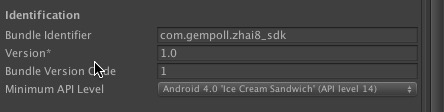
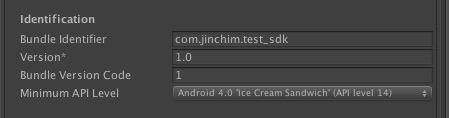
Site updated: 2017-04-17 13:57:33

diff --git a/2017/04/14/AndroidForUnity/index.html b/2017/04/14/AndroidForUnity/index.html
@@ -98,7 +98,8 @@
 <meta property="og:image" content="http://yoursite.com/2017/04/14/AndroidForUnity/img01.png">
 <meta property="og:image" content="http://yoursite.com/2017/04/14/AndroidForUnity/img02.png">
 <meta property="og:image" content="http://yoursite.com/2017/04/14/AndroidForUnity/img03.png">
-<meta property="og:updated_time" content="2017-04-17T05:34:53.000Z">
+<meta property="og:image" content="http://yoursite.com/2017/04/14/AndroidForUnity/img04.png">
+<meta property="og:updated_time" content="2017-04-17T05:57:14.000Z">
 <meta name="twitter:card" content="summary">
 <meta name="twitter:title" content="Android 和 Unity 交互及各种神坑">
 <meta name="twitter:description" content="最近公司请外包团队做了一款手游，临近上线需要接入公司自己渠道的账号体系（登录、注册、充值等），于是开发SDK和在手游中接入 SDK 又落在了我的头上。手游是用 Unity 开发的，而 SDK 是使用 Android Native，现在唯一需要解决的就是它们之间应该如何交互，接下来就把本人如何交互和交互过程中遇到的问题分享给大家。
@@ -378,7 +379,7 @@
 <h2 id="使用-unity-jar"><a href="#使用-unity-jar" class="headerlink" title="使用 unity.jar"></a>使用 unity.jar</h2><p>Unity 官方给 Android 提供了一个开发包（下载地址自行百度吧～），用以 Android 和 Unity 交互。</p>
 <p>在 Android 工程中引入 unity.jar，编写一个 Activity（需要继承自 UnityPlayerActivity，我的类名是 Unity3dActivity ），这个类便是之后 Android 和 Unity 交互的核心，并且还需要在 AndroidManifest.xml 中写入如下的配置：</p>
 <figure class="highlight xml"><table><tr><td class="gutter"><pre><div class="line">1</div><div class="line">2</div><div class="line">3</div><div class="line">4</div><div class="line">5</div><div class="line">6</div><div class="line">7</div><div class="line">8</div><div class="line">9</div><div class="line">10</div><div class="line">11</div></pre></td><td class="code"><pre><div class="line"><span class="tag">&lt;<span class="name">activity</span></span></div><div class="line">  <span class="attr">android:name</span>=<span class="string">"com.gempoll.zhai8_sdk.sdk.Unity3dActivity"</span></div><div class="line">  <span class="attr">android:configChanges</span>=<span class="string">"fontScale|keyboard|keyboardHidden|locale|mnc|mcc|navigation|orientation|screenLayout|screenSize|smallestScreenSize|uiMode|touchscreen"</span>&gt;</div><div class="line">  <span class="tag">&lt;<span class="name">intent-filter</span>&gt;</span></div><div class="line">    <span class="tag">&lt;<span class="name">action</span> <span class="attr">android:name</span>=<span class="string">"android.intent.action.MAIN"</span> /&gt;</span></div><div class="line">    <span class="tag">&lt;<span class="name">category</span> <span class="attr">android:name</span>=<span class="string">"android.intent.category.LAUNCHER"</span> /&gt;</span></div><div class="line">  <span class="tag">&lt;/<span class="name">intent-filter</span>&gt;</span></div><div class="line">  <span class="tag">&lt;<span class="name">meta-data</span></span></div><div class="line">    <span class="attr">android:name</span>=<span class="string">"unityplayer.UnityActivity"</span></div><div class="line">    <span class="attr">android:value</span>=<span class="string">"true"</span> /&gt;</div><div class="line"><span class="tag">&lt;/<span class="name">activity</span>&gt;</span></div></pre></td></tr></table></figure>
-<h2 id="导出-SDK-模块的-aar"><a href="#导出-SDK-模块的-aar" class="headerlink" title="导出 SDK 模块的 aar"></a>导出 SDK 模块的 aar</h2><p>当上面的流程配置完成后，编译 Android 项目，成功后可在模块下的 build/outputs/aar 目录，找到相应的 aar 包，一般来说会有 debug 版和 release版（区别在于代码压缩、混淆和应用签名），这里我直接使用了 zhai8_sdk-release.aar。</p>
+<h2 id="导出-SDK-模块的-aar"><a href="#导出-SDK-模块的-aar" class="headerlink" title="导出 SDK 模块的 aar"></a>导出 SDK 模块的 aar</h2><p>当上面的流程配置完成后，编译 Android 项目，成功后可在模块下的 build/outputs/aar 目录，找到相应的 aar 包，一般来说会有 debug 版和 release版（区别在于代码压缩、混淆和应用签名），这里我直接使用了 test_sdk-release.aar。</p>
 <h1 id="Unity-导入-SDK-模块"><a href="#Unity-导入-SDK-模块" class="headerlink" title="Unity 导入 SDK 模块"></a>Unity 导入 SDK 模块</h1><p>创建一个 Unity 工程，在其 Assets 目录下建立 Plugins/Android 目录，用于专门存放 Android相关的文件，将需要拷贝的文件拷贝至 Plugins/Android 目录下，如下图：</p>
 <img src="/2017/04/14/AndroidForUnity/img02.png" alt="img02.png" title="">
 <p><br>至此，基本的配置完成，现在需要写代码让 Unity 和 Android “亲热”起来！</p>
@@ -393,10 +394,13 @@
 <figure class="highlight csharp"><table><tr><td class="gutter"><pre><div class="line">1</div><div class="line">2</div><div class="line">3</div><div class="line">4</div><div class="line">5</div></pre></td><td class="code"><pre><div class="line"><span class="function"><span class="keyword">void</span> <span class="title">Start</span> (<span class="params"></span>) </span>&#123;</div><div class="line">  AndroidJavaClass jc = <span class="keyword">new</span> AndroidJavaClass(<span class="string">"com.unity3d.player.UnityPlayer"</span>);</div><div class="line">  AndroidJavaObject jo = jc.GetStatic&lt;AndroidJavaObject&gt;(<span class="string">"currentActivity"</span>);</div><div class="line">  jo.Call(<span class="string">"u_showToast"</span>, <span class="string">"test"</span>);</div><div class="line">&#125;</div></pre></td></tr></table></figure>
 <p>解释一下，前两句是找到 Android 的当前界面对象（就是之前写的 Unity3dActivity.java，直接照抄），第三句使用这个对象的 Call() 方法，第一个参数便是在 Unity3dActivity.java 中写的方法名，后面的参数便是该方法对应的参数。</p>
 <blockquote>
-<p>坑二：参数只能是字符串，传入其他类型是失效。</p>
+<p>坑二：参数只能是字符串，传入其他类型会使方法失效。</p>
 </blockquote>
-<p>接着，可以使用 Unity 打包 Apk了，要记得对 Player Settings 进行配置，要注意包名、最小版本要和 AndroidManifest.xml 中的一致，如下图：</p>
+<p>接着，可以使用 Unity 打包 Apk了，要记得对 Player Settings 进行配置，要注意包名、版本号、最小编译版本等信息要和 AndroidManifest.xml 中的一致，如下图：</p>
 <img src="/2017/04/14/AndroidForUnity/img03.png" alt="img03.png" title="">
+<p><br>接着点击 build 进行打包，你会发现报错了！</p>
+<img src="/2017/04/14/AndroidForUnity/img04.png" alt="img04.png" title="">
+<p><br>此时的你心里一万头草泥马在奔跑，我尼玛搞了这么久你给我来这个？</p>
 
       
     </div>

diff --git a/about/index.html b/about/index.html
@@ -89,20 +89,20 @@
 
 <meta name="description" content="Hi，我是金梧。
 一名Android开发爱好者，正在为幸福美好的生活和牛逼的技术奋斗着！
-联系我：&amp;#106;&amp;#x69;&amp;#110;&amp;#x63;&amp;#x68;&amp;#105;&amp;#109;&amp;#64;&amp;#x76;&amp;#105;&amp;#112;&amp;#46;&amp;#113;&amp;#x71;&amp;#x2e;&amp;#99;&amp;#111;&amp;#x6d;">
+联系我：&amp;#106;&amp;#x69;&amp;#x6e;&amp;#99;&amp;#104;&amp;#105;&amp;#109;&amp;#x40;&amp;#x76;&amp;#x69;&amp;#x70;&amp;#x2e;&amp;#x71;&amp;#113;&amp;#x2e;&amp;#x63;&amp;#111;&amp;#x6d;">
 <meta property="og:type" content="website">
 <meta property="og:title" content="金梧的个人博客">
 <meta property="og:url" content="http://yoursite.com/about/index.html">
 <meta property="og:site_name" content="金梧的个人博客">
 <meta property="og:description" content="Hi，我是金梧。
 一名Android开发爱好者，正在为幸福美好的生活和牛逼的技术奋斗着！
-联系我：&amp;#106;&amp;#x69;&amp;#110;&amp;#x63;&amp;#x68;&amp;#105;&amp;#109;&amp;#64;&amp;#x76;&amp;#105;&amp;#112;&amp;#46;&amp;#113;&amp;#x71;&amp;#x2e;&amp;#99;&amp;#111;&amp;#x6d;">
+联系我：&amp;#106;&amp;#x69;&amp;#x6e;&amp;#99;&amp;#104;&amp;#105;&amp;#109;&amp;#x40;&amp;#x76;&amp;#x69;&amp;#x70;&amp;#x2e;&amp;#x71;&amp;#113;&amp;#x2e;&amp;#x63;&amp;#111;&amp;#x6d;">
 <meta property="og:updated_time" content="2017-03-30T07:59:19.000Z">
 <meta name="twitter:card" content="summary">
 <meta name="twitter:title" content="金梧的个人博客">
 <meta name="twitter:description" content="Hi，我是金梧。
 一名Android开发爱好者，正在为幸福美好的生活和牛逼的技术奋斗着！
-联系我：&amp;#106;&amp;#x69;&amp;#110;&amp;#x63;&amp;#x68;&amp;#105;&amp;#109;&amp;#64;&amp;#x76;&amp;#105;&amp;#112;&amp;#46;&amp;#113;&amp;#x71;&amp;#x2e;&amp;#99;&amp;#111;&amp;#x6d;">
+联系我：&amp;#106;&amp;#x69;&amp;#x6e;&amp;#99;&amp;#104;&amp;#105;&amp;#109;&amp;#x40;&amp;#x76;&amp;#x69;&amp;#x70;&amp;#x2e;&amp;#x71;&amp;#113;&amp;#x2e;&amp;#x63;&amp;#111;&amp;#x6d;">
 
 
 
@@ -284,7 +284,7 @@
     
       <p>Hi，我是金梧。</p>
 <p>一名Android开发爱好者，正在为幸福美好的生活和牛逼的技术奋斗着！</p>
-<p>联系我：<a href="&#109;&#97;&#x69;&#x6c;&#x74;&#x6f;&#58;&#106;&#x69;&#110;&#x63;&#x68;&#105;&#109;&#64;&#x76;&#105;&#112;&#46;&#113;&#x71;&#x2e;&#99;&#111;&#x6d;">&#106;&#x69;&#110;&#x63;&#x68;&#105;&#109;&#64;&#x76;&#105;&#112;&#46;&#113;&#x71;&#x2e;&#99;&#111;&#x6d;</a></p>
+<p>联系我：<a href="&#x6d;&#x61;&#x69;&#108;&#116;&#x6f;&#x3a;&#106;&#x69;&#x6e;&#99;&#104;&#105;&#109;&#x40;&#x76;&#x69;&#x70;&#x2e;&#x71;&#113;&#x2e;&#x63;&#111;&#x6d;">&#106;&#x69;&#x6e;&#99;&#104;&#105;&#109;&#x40;&#x76;&#x69;&#x70;&#x2e;&#x71;&#113;&#x2e;&#x63;&#111;&#x6d;</a></p>
 
     
   </div>

diff --git a/css/main.css b/css/main.css
@@ -1684,7 +1684,7 @@ pre .javascript .function {
   width: 4px;
   height: 4px;
   border-radius: 50%;
-  background: #2a4e20;
+  background: #ffff2f;
 }
 .links-of-blogroll {
   font-size: 13px;
